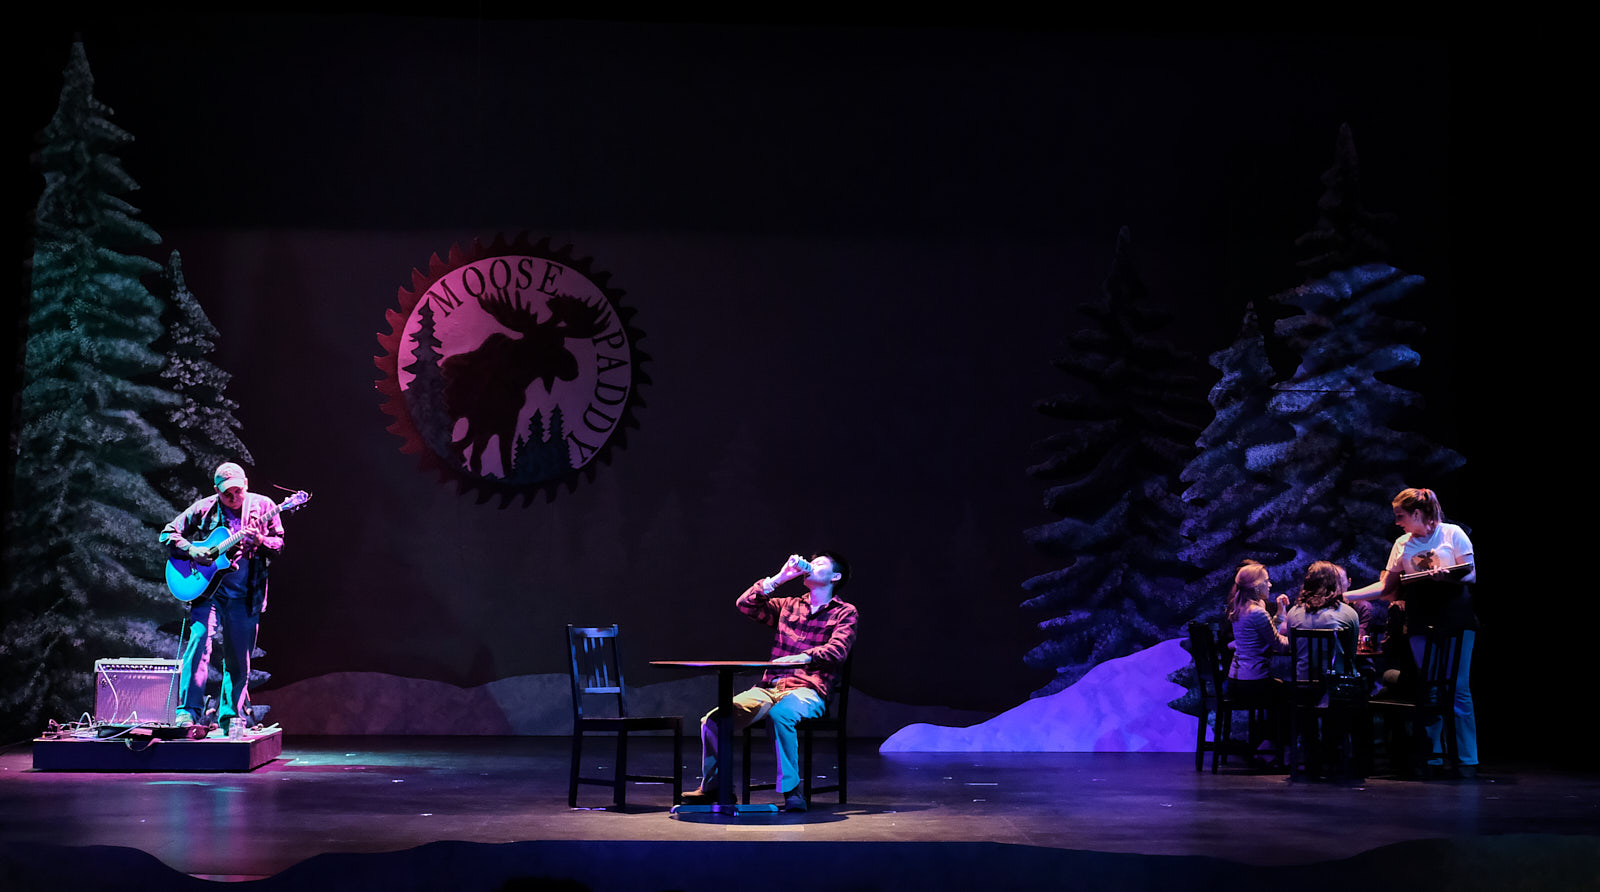
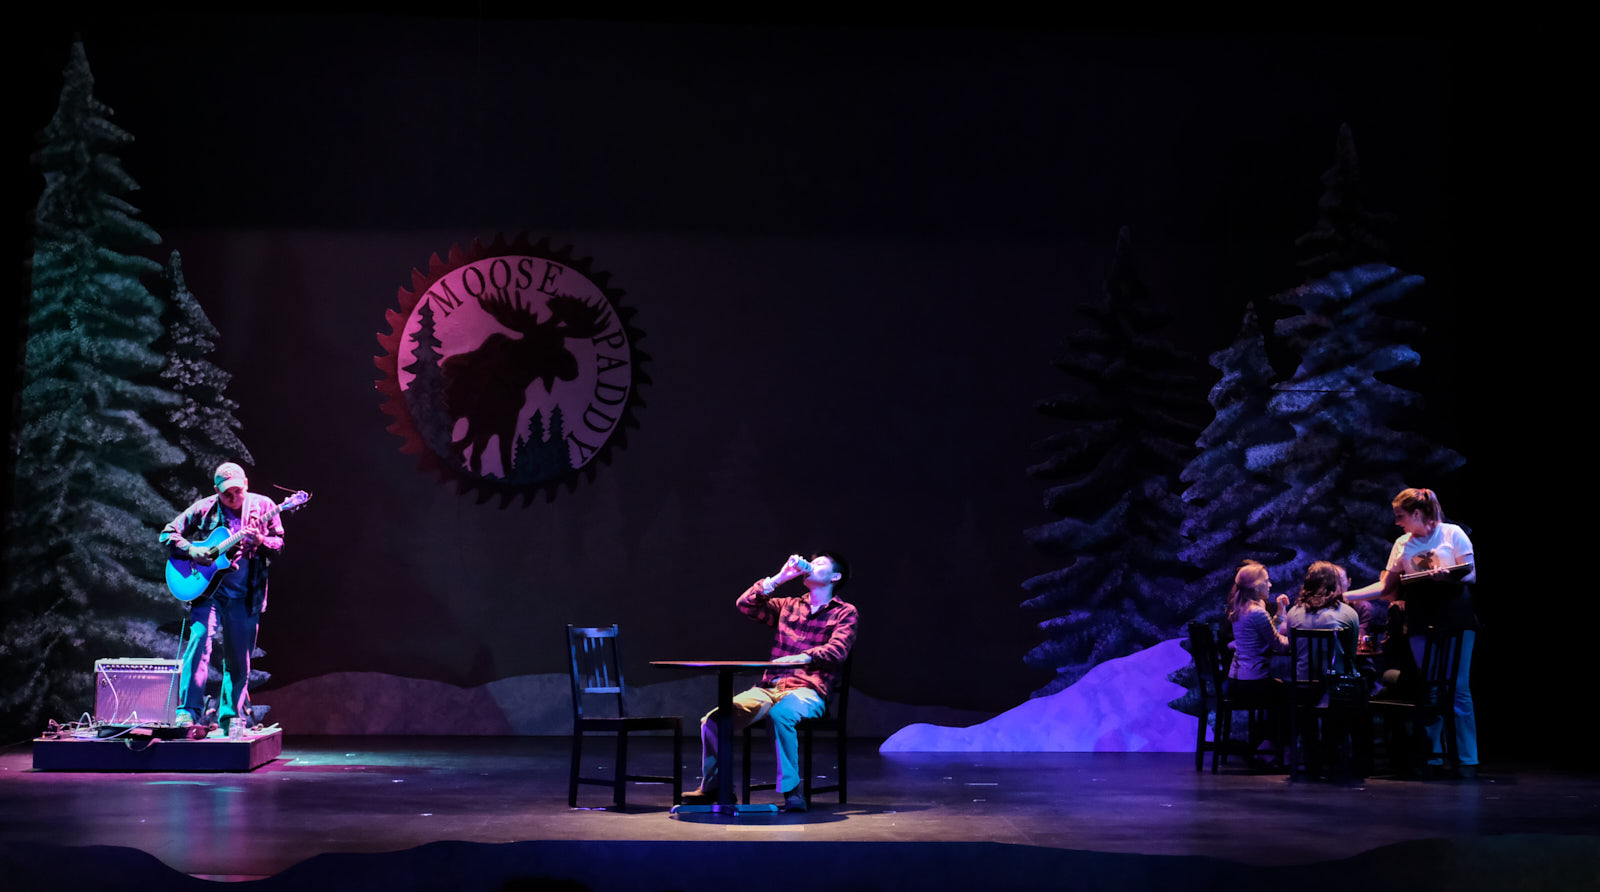
improve image qualities

diff --git a/gatsby-config.js b/gatsby-config.js
@@ -61,7 +61,8 @@ module.exports = {
                     {
                         resolve: `gatsby-remark-images`,
                         options: {
-                            maxWidth: 1600,
+                            maxWidth: 1800,
+                            quality: 80,
                             linkImagesToOriginal: false,
                             wrapperStyle: 'margin-bottom:5px;',
                         }

diff --git a/src/pages/projects.js b/src/pages/projects.js
@@ -9,6 +9,7 @@ import './projects.css'
 export default ({ data }) => {
     return (
         <Layout>
+            <h2>Hey! I haven't actually posted anything here yet. I wanted to get the site out for stage tech portfolios. Check back soon.</h2>
             <SEO title="Projects" />
             <div class="grid grid-cols-2 gap-6 pr-6 mb-6">
                 {data.allMarkdownRemark.edges.map(({ node }) => (

diff --git a/src/pages/index.css b/src/pages/index.css
@@ -26,12 +26,14 @@
     position: relative;
     width: 100%;
     height: 100%;
+    min-height: 25vh;
 }
 
 .recent-image img {
     top: 50%;
+    left: 50%;
     position: absolute;
-    margin-top: -100px;
+    transform: translateX(0%) translateY(-30%)
 }
 
 .recent-name {

diff --git a/src/pages/lighting.css b/src/pages/lighting.css
@@ -6,9 +6,15 @@
 
 
 .show-image img {
-    top: 50%;
-    margin-top: -300px;
     position: absolute;
+    top: 50%;
+    left: 50%;
+    transform: translateX(0%) translateY(-30%);
+    max-width: 100%;
+    max-height: 100%;
+}
+
+.show-image {
 }
 
 .show-title {

diff --git a/src/projects/testProject/index.md b/src/projects/testProject/index.md
@@ -1,9 +1,9 @@
 ---
-title: My Test Project
+title: A Wonderful Placeholder
 slug: /project/testProject
 tagline: Obviously a placeholder.
 featuredImage: ./sparks.jpg
-date: 2020-01
+date: 2018-12
 ---
 
 Spicy jalapeno bacon ipsum dolor amet sint bacon nisi, landjaeger eu andouille tri-tip cupidatat velit sed veniam pancetta lorem voluptate. In enim swine, sirloin hamburger cillum ullamco pork belly alcatra. Chicken ribeye reprehenderit beef ribs. Sed cupim flank short loin cupidatat. Adipisicing minim porchetta sint pork chop. Dolor pastrami deserunt beef irure.

diff --git a/src/lighting/guys-and-dolls/index.md b/src/lighting/guys-and-dolls/index.md
@@ -9,8 +9,8 @@ location: Palo Alto High School (Palo Alto, CA)
 ---
 
 ![](./GuysAndDolls-245.jpg)
-![](./GuysandDolls-320.jpg)
+![](./GuysAndDolls-320.jpg)
 ![](./GuysAndDolls-0162.jpg)
-![](./GuysandDolls-209.jpg)
+![](./GuysAndDolls-209.jpg)
 ![](./GuysAndDolls-0159.jpg)
-![](./GuysandDolls-0110.jpg)
+![](./GuysAndDolls-0110.jpg)

diff --git a/src/projects/project2/index.md b/src/projects/project2/index.md
@@ -1,9 +1,9 @@
 ---
-title: My Test Project 2
+title: Also a Placeholder!
 slug: /project/project2
 tagline: better than yours.
 featuredImage: ./sparks.jpg
-date: 2020-01
+date: 2019-05
 github: https://github.com
 buildguide: ./build
 ---

diff --git a/src/projects/project1/index.md b/src/projects/project1/index.md
@@ -1,9 +1,9 @@
 ---
-title: My Test Project 1
+title: Placeholder!
 slug: /project/project1
 tagline: better than yours.
 featuredImage: ./sparks.jpg
-date: 2018-12
+date: 2019-12
 ---
 
 Wow! It's so good!

diff --git a/src/lighting/miracle-worker/index.md b/src/lighting/miracle-worker/index.md
@@ -1,6 +1,6 @@
 ---
 title: Miracle Worker
-featuredImage: MiracleWorker1.jpg
+featuredImage: featuredImage.jpg
 date: 2017-09
 director: Tanna Herr and Tony Kienitz
 author: William Gibson

diff --git a/src/lighting/almost-maine/index.md b/src/lighting/almost-maine/index.md
@@ -1,6 +1,6 @@
 ---
 title: Almost Maine
-featuredImage: AlmostMaine_081.jpg
+featuredImage: featuredImage.jpg
 date: 2019-11
 director: Kathleen Woods
 author: John Cariani

diff --git a/src/lighting/guppy/index.md b/src/lighting/guppy/index.md
@@ -1,6 +1,6 @@
 ---
 title: Guppy
-featuredImage: Guppy_404.jpg
+featuredImage: featuredImage.jpg
 date: 2019-07
 director: Tanna Herr and Tony Kienitz
 author: Tony Kienitz
